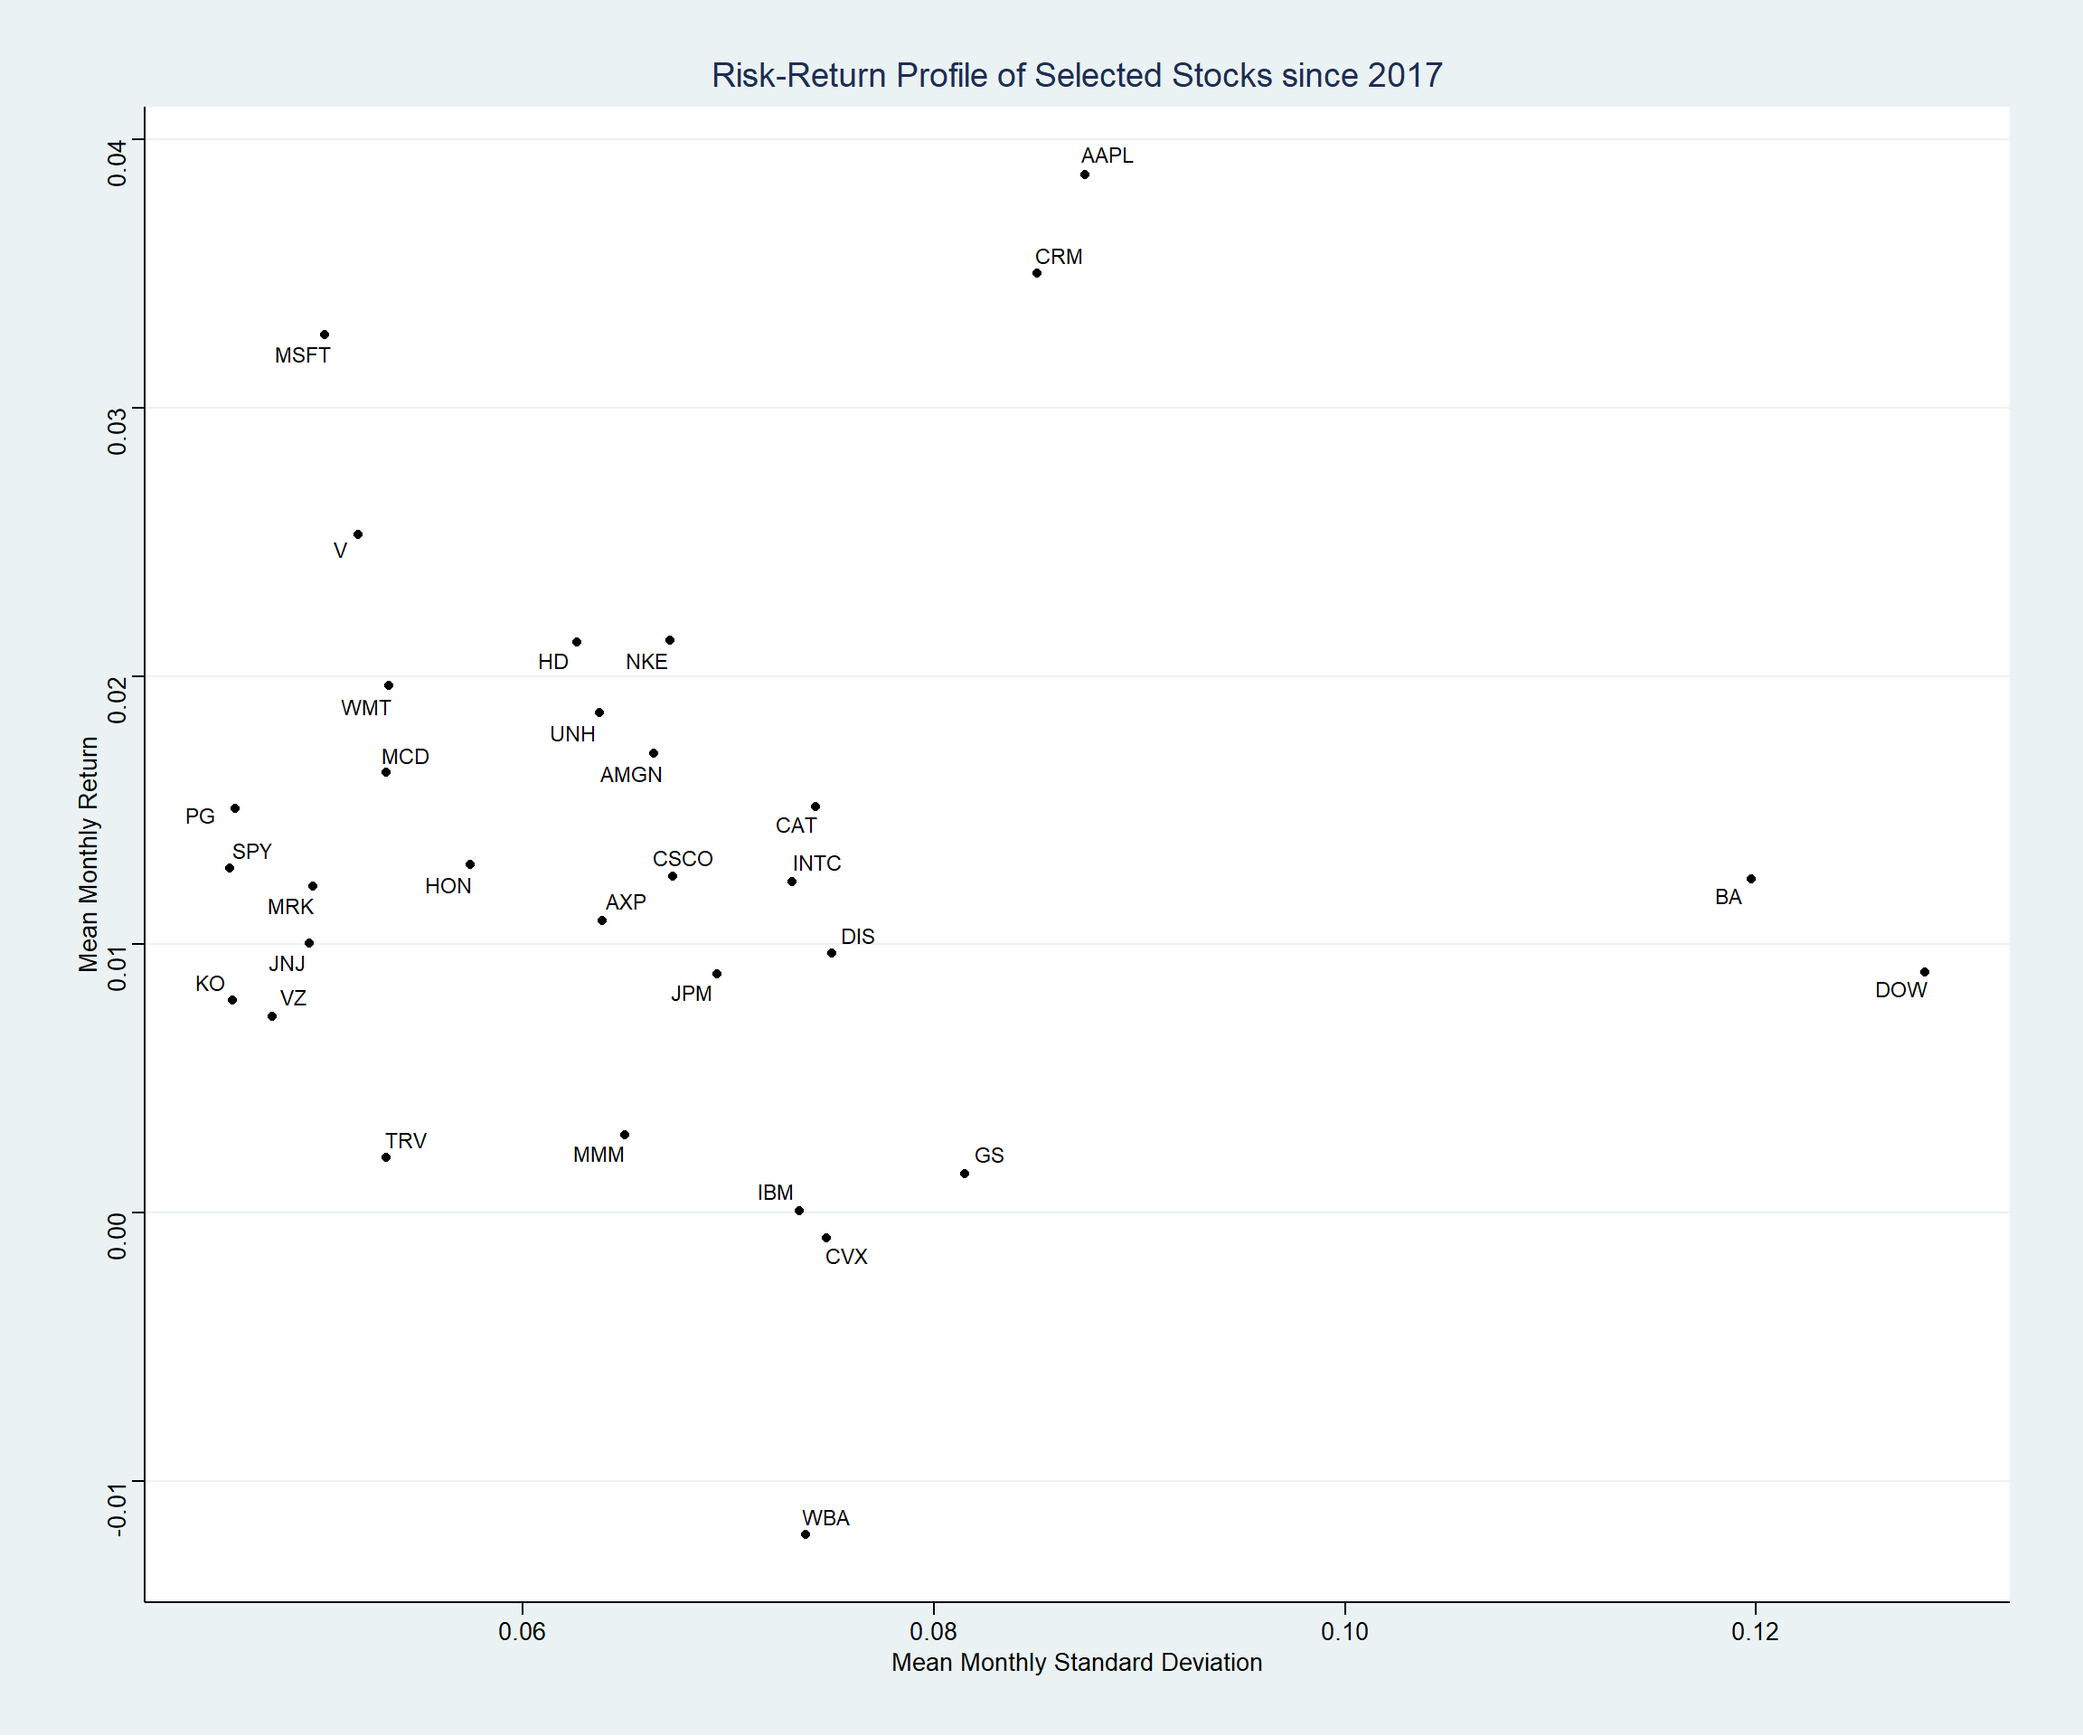
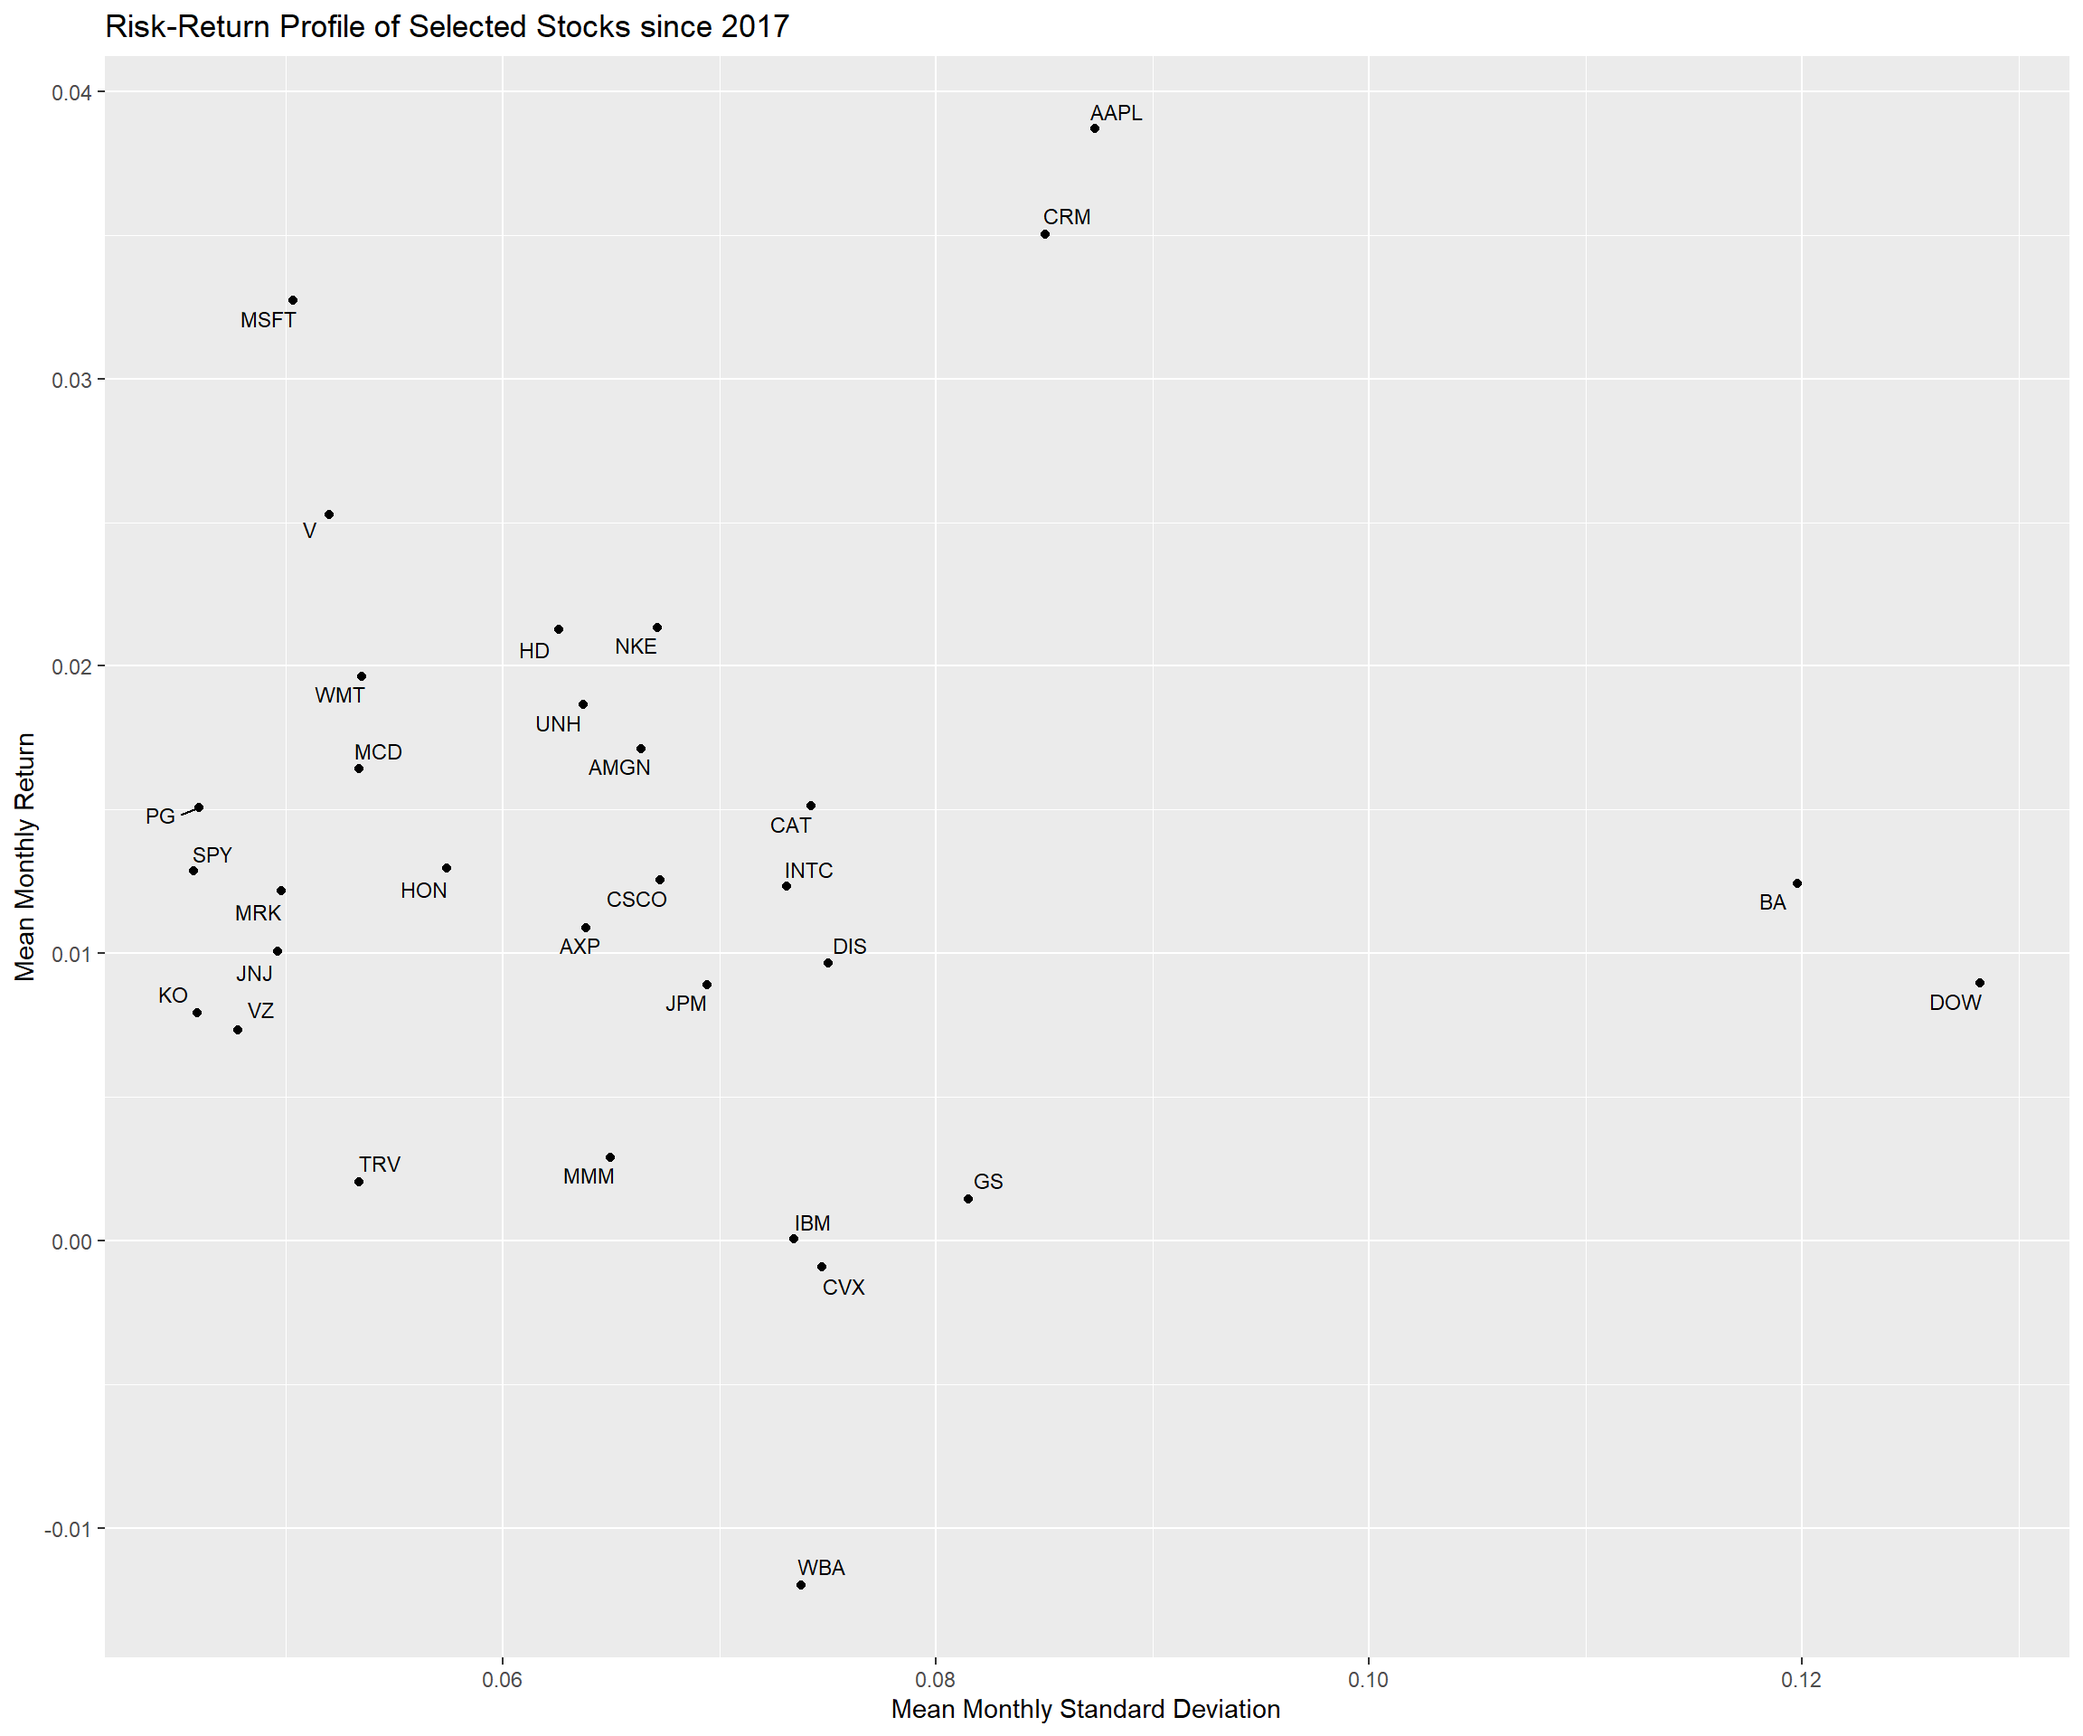
try to make it better

diff --git a/public/blogs/project6/index.html b/public/blogs/project6/index.html
@@ -219,11 +219,9 @@ ggplot(summarise_monthly_returns, aes(x = sd_return, y = mean_return)) +
   geom_text_repel(aes(label = symbol), size = 3)+
     labs(title = &quot;Risk-Return Profile of Selected Stocks since 2017&quot;, x = &quot;Mean Monthly Standard Deviation&quot;, y = &quot;Mean Monthly Return&quot;)+
   geom_point() +
-  theme_stata()</code></pre>
-<p><img src="/blogs/project6_files/figure-html/risk_return_plot-1.png" width="1152" style="display: block; margin: auto;" /></p>
-<pre class="r"><code>  NULL</code></pre>
-<pre><code>## NULL</code></pre>
-<p>This plot indicates that most companies offer a similar risk-return profile with a standard deviation of returns under 0.08 and a mean monthly return of 0.01 to 0.02. However, there are some outliers present. For example, WBA’s standard deviation of returns is close to 0.075, but its monthly mean return is almost -0.015. Other companies with a similar risk return profile bucket offer a much higher mean monthly return. Other outliers include DOW and BA, which have a monthly mean return of around 0.01, but compared to other companies offering a similar return, their monthly return standard deviation is much higher at 0.12 to 0.13.</p>
+  NULL</code></pre>
+<p><img src="/blogs/project6_files/figure-html/risk_return_plot-1.png" width="1152" style="display: block; margin: auto;" />
+This plot indicates that most companies offer a similar risk-return profile with a standard deviation of returns under 0.08 and a mean monthly return of 0.01 to 0.02. However, there are some outliers present. For example, WBA’s standard deviation of returns is close to 0.075, but its monthly mean return is almost -0.015. Other companies with a similar risk return profile bucket offer a much higher mean monthly return. Other outliers include DOW and BA, which have a monthly mean return of around 0.01, but compared to other companies offering a similar return, their monthly return standard deviation is much higher at 0.12 to 0.13.</p>
 
                         </div>
                     </section>

diff --git a/content/blogs/project6.html b/content/blogs/project6.html
@@ -157,8 +157,6 @@ ggplot(summarise_monthly_returns, aes(x = sd_return, y = mean_return)) +
   geom_text_repel(aes(label = symbol), size = 3)+
     labs(title = &quot;Risk-Return Profile of Selected Stocks since 2017&quot;, x = &quot;Mean Monthly Standard Deviation&quot;, y = &quot;Mean Monthly Return&quot;)+
   geom_point() +
-  theme_stata()</code></pre>
-<p><img src="/blogs/project6_files/figure-html/risk_return_plot-1.png" width="1152" style="display: block; margin: auto;" /></p>
-<pre class="r"><code>  NULL</code></pre>
-<pre><code>## NULL</code></pre>
-<p>This plot indicates that most companies offer a similar risk-return profile with a standard deviation of returns under 0.08 and a mean monthly return of 0.01 to 0.02. However, there are some outliers present. For example, WBA’s standard deviation of returns is close to 0.075, but its monthly mean return is almost -0.015. Other companies with a similar risk return profile bucket offer a much higher mean monthly return. Other outliers include DOW and BA, which have a monthly mean return of around 0.01, but compared to other companies offering a similar return, their monthly return standard deviation is much higher at 0.12 to 0.13.</p>
+  NULL</code></pre>
+<p><img src="/blogs/project6_files/figure-html/risk_return_plot-1.png" width="1152" style="display: block; margin: auto;" />
+This plot indicates that most companies offer a similar risk-return profile with a standard deviation of returns under 0.08 and a mean monthly return of 0.01 to 0.02. However, there are some outliers present. For example, WBA’s standard deviation of returns is close to 0.075, but its monthly mean return is almost -0.015. Other companies with a similar risk return profile bucket offer a much higher mean monthly return. Other outliers include DOW and BA, which have a monthly mean return of around 0.01, but compared to other companies offering a similar return, their monthly return standard deviation is much higher at 0.12 to 0.13.</p>

diff --git a/public/blogs/project7/index.html b/public/blogs/project7/index.html
@@ -130,7 +130,8 @@ monthly_capm_returns &lt;- myStocks_returns_monthly %&gt;%
 
 ggpairs(monthly_capm_returns[-1]) #exclude &quot;Date&quot;, the first column, from the correlation matrix</code></pre>
 <p><img src="/blogs/project7_files/figure-html/correlationMatrix-1.png" width="672" /></p>
-<p>Examine the relationship between Facebook stock with S&amp;P500.</p>
+<p>Examine the relationship between Facebook stock with S&amp;P500.
+The beta of Facebook stock is around 1.58. The alpha is 0.9% but not significant. R^2 shows how much of the stock volatility can be explained by the model.</p>
 <pre class="r"><code>ggplot(monthly_capm_returns, aes(x=SPY, y = FB))+
   geom_point()+
   geom_smooth(method=&quot;lm&quot;, se=FALSE)</code></pre>

diff --git a/content/blogs/project7.html b/content/blogs/project7.html
@@ -68,7 +68,8 @@ monthly_capm_returns &lt;- myStocks_returns_monthly %&gt;%
 
 ggpairs(monthly_capm_returns[-1]) #exclude &quot;Date&quot;, the first column, from the correlation matrix</code></pre>
 <p><img src="/blogs/project7_files/figure-html/correlationMatrix-1.png" width="672" /></p>
-<p>Examine the relationship between Facebook stock with S&amp;P500.</p>
+<p>Examine the relationship between Facebook stock with S&amp;P500.
+The beta of Facebook stock is around 1.58. The alpha is 0.9% but not significant. R^2 shows how much of the stock volatility can be explained by the model.</p>
 <pre class="r"><code>ggplot(monthly_capm_returns, aes(x=SPY, y = FB))+
   geom_point()+
   geom_smooth(method=&quot;lm&quot;, se=FALSE)</code></pre>
